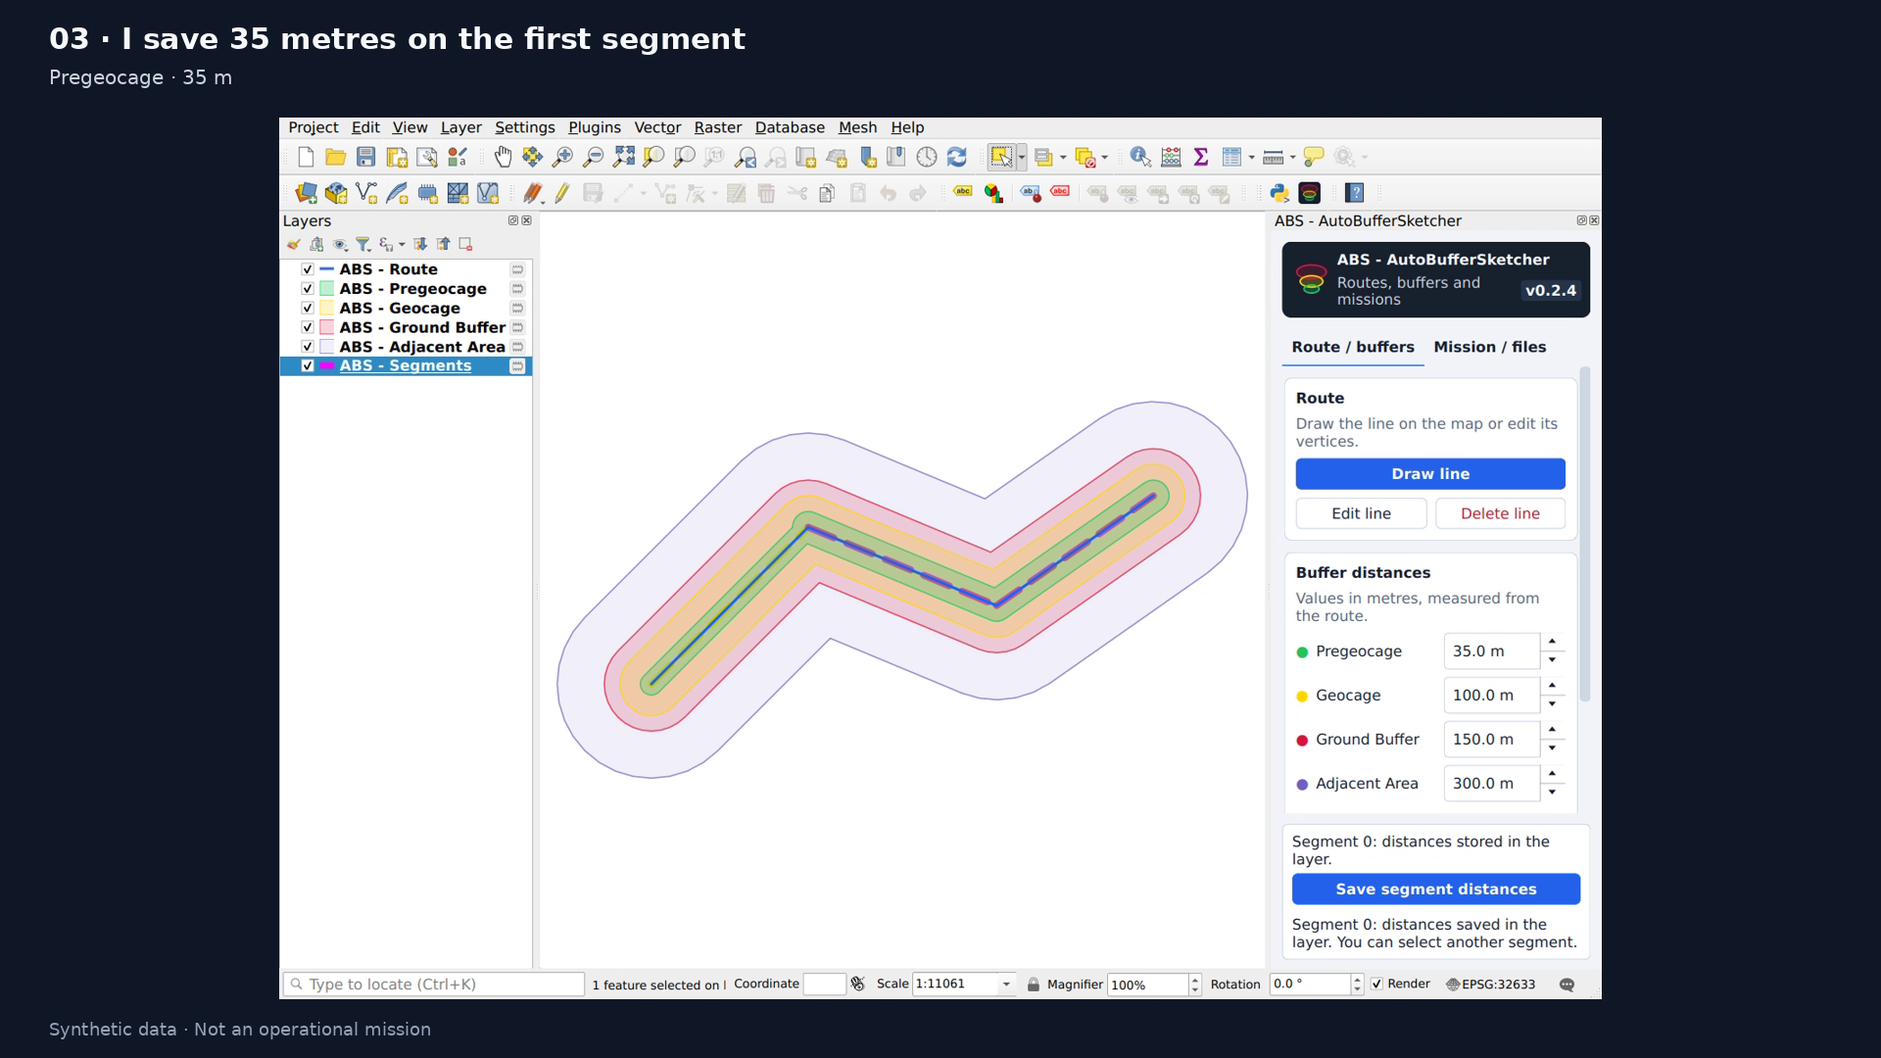
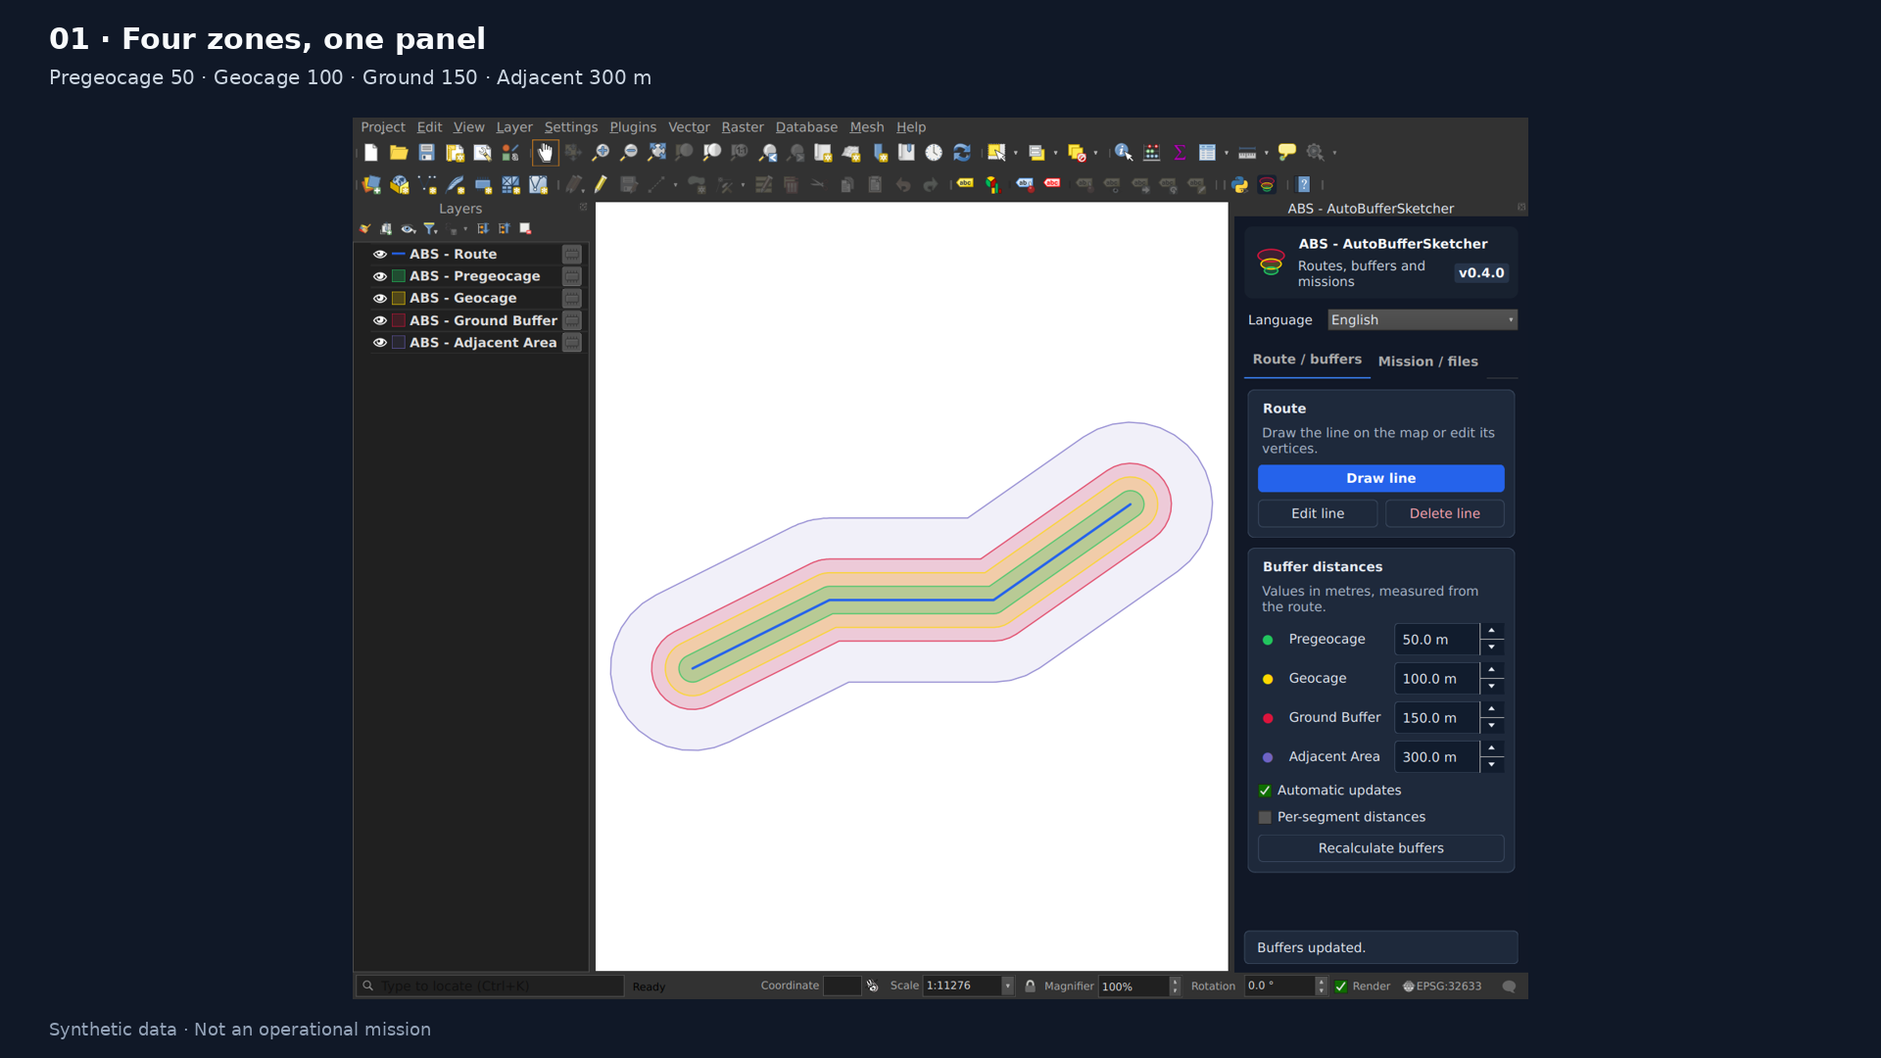
docs: prepare ABS 0.4.0 release and bilingual theme demos
Present six languages and QGIS 3/4 support as the tested 0.4.0 release. Refresh synthetic QGIS screenshots and link new IT/EN videos with light/dark comparisons. Explain catalog approval status and the legacy Qt5 bridge flagged by its static Qt6 checker. Add translation feedback contacts. No packaged plugin files change; validated 34-file ZIP remains byte-identical.

diff --git a/README.md b/README.md
@@ -14,13 +14,21 @@ Sto sviluppando ABS come progetto personale per disegnare e modificare rotte in 
 
 Con ABS voglio raccogliere nello stesso pannello il lavoro sulla rotta, il calcolo dei buffer e la preparazione dei dati da esportare. Per lo scambio GIS metto a disposizione GeoPackage e GeoJSON; per il flusso missione ho un’esportazione `.plan` pensata appositamente per **RigiCloud**.
 
-**Stato:** ho pubblicato la versione sperimentale [0.2.5](https://github.com/OnlyPio59/ABS_AutoBufferSketcher/releases/tag/v0.2.5), con versione visibile nel pannello. ABS è approvato e disponibile nel [catalogo ufficiale QGIS](https://plugins.qgis.org/plugins/auto_buffer_sketcher/), come plugin sperimentale. Lo ZIP 0.2.5 pubblicato include italiano e inglese; il candidato 0.4.0 descritto sotto porta l’interfaccia a sei lingue.
+**Stato:** pubblico la versione sperimentale [0.4.0](https://github.com/OnlyPio59/ABS_AutoBufferSketcher/releases/tag/v0.4.0), con sei lingue e compatibilità QGIS 3/4. Ho inviato questa versione al catalogo QGIS: la scansione sicurezza/qualità è passata 5/5; l’approvazione è ancora in attesa. Nel [catalogo ufficiale](https://plugins.qgis.org/plugins/auto_buffer_sketcher/) resta disponibile la 0.2.5 fino all’approvazione dell’aggiornamento.
 
 [Guida completa](docs/USER_GUIDE.md) · [Demo riproducibile](examples/README.md) · [Presentazione breve](docs/DEMO.md#italiano) · [Changelog](CHANGELOG.md) · [Contribuire](CONTRIBUTING.md)
 
-Nel candidato 0.4.0 mantengo la compatibilità QGIS 3/4 e Qt5/Qt6 e aggiungo sei lingue: italiano, inglese, spagnolo, portoghese brasiliano, francese e tedesco. Dal selettore sotto il logo posso seguire automaticamente la lingua di QGIS oppure scegliere una lingua, salvata tra le preferenze di ABS e applicata subito. Calcoli, interfaccia e formati restano invariati. La 0.2.5 è la versione attualmente approvata sul catalogo. [Compatibilità e verifiche](docs/COMPATIBILITY.md).
+Nella 0.4.0 mantengo la compatibilità QGIS 3/4 e Qt5/Qt6 e aggiungo sei lingue: italiano, inglese, spagnolo, portoghese brasiliano, francese e tedesco. Dal selettore sotto il logo posso seguire automaticamente la lingua di QGIS oppure scegliere una lingua, salvata tra le preferenze di ABS e applicata subito. Calcoli, interfaccia e formati restano invariati. La 0.2.5 è la versione attualmente approvata sul catalogo. [Compatibilità e verifiche](docs/COMPATIBILITY.md).
 
-**Demo video — 50 secondi:** [guarda o scarica la versione italiana](https://github.com/OnlyPio59/ABS_AutoBufferSketcher/releases/download/v0.2.4/ABS_demo_0.2.4_IT_r1.mp4). Mostro la modifica della rotta, il salvataggio indipendente delle distanze e gli export, con schermate QGIS e dati sintetici. La demo è realizzata con la 0.2.4 e mostra lo stesso flusso della 0.2.5.
+**Demo video 0.4.0 — 58 secondi:** [guarda o scarica la versione italiana](https://github.com/OnlyPio59/ABS_AutoBufferSketcher/releases/download/v0.4.0/ABS_demo_0.4.0_IT.mp4). Mostro la modifica della rotta, il salvataggio indipendente delle distanze e gli export, con schermate QGIS e dati sintetici. Mostro anche i temi chiaro/scuro e le sei lingue; uso schermate QGIS reali con dati sintetici.
+
+### Tema chiaro e scuro
+
+Il pannello segue il tema di QGIS; mantengo il logo sul suo fondo scuro in entrambi i casi.
+
+| Chiaro | Scuro |
+| --- | --- |
+| <img src="docs/assets/theme-light-it.png" alt="ABS 0.4.0 light" width="340"> | <img src="docs/assets/theme-dark-it.png" alt="ABS 0.4.0 dark" width="340"> |
 
 ### Da dove nasce
 
@@ -38,10 +46,10 @@ Ho quindi portato questo lavoro in QGIS: modifico la rotta, ricalcolo i buffer e
 
 ### Installazione e primo utilizzo
 
-Uso Python, Qt e PyQGIS già forniti con QGIS, senza pacchetti Python esterni. Il sorgente 0.4.0 dichiara QGIS **3.34–4.99**; le verifiche su Linux coprono **3.34.4 e 3.44.15/Qt5** e **4.2.3/Qt6**. Non ho ancora convalidato Windows o macOS. La 0.2.5 nel catalogo è limitata a QGIS 3. Per provare il candidato 0.4.0 su QGIS 4 uso il suo ZIP, quando disponibile tra le [release](https://github.com/OnlyPio59/ABS_AutoBufferSketcher/releases).
+Uso Python, Qt e PyQGIS già forniti con QGIS, senza pacchetti Python esterni. Il sorgente 0.4.0 dichiara QGIS **3.34–4.99**; le verifiche su Linux coprono **3.34.4 e 3.44.15/Qt5** e **4.2.3/Qt6**. Non ho ancora convalidato Windows o macOS. La 0.2.5 nel catalogo è limitata a QGIS 3. Per installare subito la 0.4.0 uso lo ZIP della [release](https://github.com/OnlyPio59/ABS_AutoBufferSketcher/releases/tag/v0.4.0), anche su QGIS 4, in attesa dell’approvazione nel catalogo.
 
 1. In QGIS apri **Plugin → Gestisci e installa plugin → Impostazioni** e abilita **Mostra anche plugin sperimentali**.
-2. Nella scheda **Tutti**, cerca **ABS - AutoBufferSketcher** e premi **Installa plugin**. In alternativa, scarica lo ZIP dagli asset della [release](https://github.com/OnlyPio59/ABS_AutoBufferSketcher/releases/tag/v0.2.5) e usa **Installa da ZIP**. Dopo un aggiornamento, riavvia QGIS.
+2. Nella scheda **Tutti**, cerca **ABS - AutoBufferSketcher** e premi **Installa plugin**. In alternativa, scarica lo ZIP dagli asset della [release](https://github.com/OnlyPio59/ABS_AutoBufferSketcher/releases/tag/v0.4.0) e usa **Installa da ZIP**. Dopo un aggiornamento, riavvia QGIS.
 3. Apri ABS dalla toolbar. In **Rotta e buffer** imposta le distanze e premi **Disegna linea**: clic sinistro per i vertici, clic destro per completare, Backspace per rimuovere l’ultimo vertice, Esc per annullare.
 4. Usa **Modifica linea** e **Salva modifiche** per intervenire sui vertici. Puoi disattivare l’aggiornamento automatico e usare **Ricalcola buffer**.
 5. Per valori locali, attiva **Distanze diverse per segmento**, seleziona un segmento, modifica i campi e premi **Salva distanze del segmento** prima di selezionare il successivo.
@@ -93,13 +101,21 @@ I am developing ABS as a personal project to draw and edit routes in QGIS and ma
 
 With ABS, I want to bring route editing, buffer calculation and export preparation into the same panel. I provide GeoPackage and GeoJSON for GIS data exchange, and a `.plan` mission export designed specifically for the **RigiCloud** workflow.
 
-**Status:** I have published experimental version [0.2.5](https://github.com/OnlyPio59/ABS_AutoBufferSketcher/releases/tag/v0.2.5), with a visible version badge. ABS is approved and available in the [official QGIS plugin catalog](https://plugins.qgis.org/plugins/auto_buffer_sketcher/), as an experimental plugin. The published 0.2.5 ZIP includes Italian and English; candidate 0.4.0 described below expands the interface to six languages.
+**Status:** I am releasing experimental version [0.4.0](https://github.com/OnlyPio59/ABS_AutoBufferSketcher/releases/tag/v0.4.0), with six languages and QGIS 3/4 compatibility. I have submitted it to the QGIS catalog: security/quality scanning passed 5/5; approval is still pending. The [official catalog](https://plugins.qgis.org/plugins/auto_buffer_sketcher/) continues to provide 0.2.5 until the update is approved.
 
 [Detailed guide](docs/USER_GUIDE.en.md) · [Reproducible demo — Italian](examples/README.md) · [Short presentation](docs/DEMO.md#english) · [Changelog](CHANGELOG.md) · [Contributing](CONTRIBUTING.md)
 
-In candidate 0.4.0 I retain QGIS 3/4 and Qt5/Qt6 compatibility and provide six languages: Italian, English, Spanish, Brazilian Portuguese, French and German. From the selector below the logo I can follow the QGIS language automatically or choose a language, saved in ABS preferences and applied immediately. Calculations, interface and formats remain unchanged. Version 0.2.5 is the version currently approved in the catalog. [Compatibility and checks](docs/COMPATIBILITY.md).
+In 0.4.0 I retain QGIS 3/4 and Qt5/Qt6 compatibility and provide six languages: Italian, English, Spanish, Brazilian Portuguese, French and German. From the selector below the logo I can follow the QGIS language automatically or choose a language, saved in ABS preferences and applied immediately. Calculations, interface and formats remain unchanged. Version 0.2.5 is the version currently approved in the catalog. [Compatibility and checks](docs/COMPATIBILITY.md).
 
-**Video demo — 50 seconds:** [watch or download the English version](https://github.com/OnlyPio59/ABS_AutoBufferSketcher/releases/download/v0.2.4/ABS_demo_0.2.4_EN_r1.mp4). I show route editing, independent segment-distance saving and exports using English QGIS screenshots and synthetic data. The demo uses 0.2.4 and shows the same workflow as 0.2.5.
+**Video demo 0.4.0 — 58 seconds:** [watch or download the English version](https://github.com/OnlyPio59/ABS_AutoBufferSketcher/releases/download/v0.4.0/ABS_demo_0.4.0_EN.mp4). I show route editing, independent segment-distance saving and exports using English QGIS screenshots and synthetic data. I also show light/dark themes and all six languages, using real QGIS screenshots and synthetic data.
+
+### Light and dark themes
+
+The panel follows the QGIS theme; I keep the logo on its dark background in both cases.
+
+| Light | Dark |
+| --- | --- |
+| <img src="docs/assets/theme-light-en.png" alt="ABS 0.4.0 light" width="340"> | <img src="docs/assets/theme-dark-en.png" alt="ABS 0.4.0 dark" width="340"> |
 
 ### Where it started
 
@@ -117,10 +133,10 @@ I moved this work into QGIS, where I can edit the route, recalculate its buffers
 
 ### Installation and first use
 
-I use the Python, Qt and PyQGIS components shipped with QGIS, without additional Python packages. The 0.4.0 source declares QGIS **3.34–4.99**; Linux checks cover **3.34.4 and 3.44.15/Qt5** and **4.2.3/Qt6**. I have not yet validated Windows or macOS. The catalog version 0.2.5 is limited to QGIS 3. To try the 0.4.0 candidate on QGIS 4, I use its ZIP when available in [releases](https://github.com/OnlyPio59/ABS_AutoBufferSketcher/releases).
+I use the Python, Qt and PyQGIS components shipped with QGIS, without additional Python packages. The 0.4.0 source declares QGIS **3.34–4.99**; Linux checks cover **3.34.4 and 3.44.15/Qt5** and **4.2.3/Qt6**. I have not yet validated Windows or macOS. The catalog version 0.2.5 is limited to QGIS 3. To install 0.4.0 now, including on QGIS 4, I use the [release ZIP](https://github.com/OnlyPio59/ABS_AutoBufferSketcher/releases/tag/v0.4.0) while catalog approval is pending.
 
 1. In QGIS, open **Plugins → Manage and Install Plugins → Settings** and enable **Show also experimental plugins**.
-2. In **All**, search for **ABS - AutoBufferSketcher** and click **Install Plugin**. Alternatively, download the ZIP asset from the [release](https://github.com/OnlyPio59/ABS_AutoBufferSketcher/releases/tag/v0.2.5) and use **Install from ZIP**. Restart QGIS after an update.
+2. In **All**, search for **ABS - AutoBufferSketcher** and click **Install Plugin**. Alternatively, download the ZIP asset from the [release](https://github.com/OnlyPio59/ABS_AutoBufferSketcher/releases/tag/v0.4.0) and use **Install from ZIP**. Restart QGIS after an update.
 3. Open ABS from its toolbar button. In **Route / buffers** (**Rotta e buffer** in Italian), set the distances and click **Draw line** (**Disegna linea**): left-click to add vertices, right-click to finish, Backspace to remove the last vertex and Esc to cancel.
 4. Use **Edit line** (**Modifica linea**) and **Save changes** (**Salva modifiche**) to edit vertices. You can disable automatic updates and use **Recalculate buffers** (**Ricalcola buffer**).
 5. For local values, enable **Per-segment distances** (**Distanze diverse per segmento**), select a segment, change the values and click **Save segment distances** (**Salva distanze del segmento**) before selecting the next segment.

diff --git a/docs/DEMO.md b/docs/DEMO.md
@@ -4,20 +4,23 @@
 
 ## Italiano
 
-La demo usa la 0.2.4. È valida anche per la 0.2.5: questa versione rinomina soltanto cinque variabili locali, senza modifiche alle funzioni o all’interfaccia.
+La demo mostra ABS **0.4.0** in QGIS, con dati sintetici, selezione della lingua e confronto dei temi chiaro/scuro.
 
-[**Guarda o scarica il video italiano — 50 secondi**](https://github.com/OnlyPio59/ABS_AutoBufferSketcher/releases/download/v0.2.4/ABS_demo_0.2.4_IT_r1.mp4)
+[**Guarda o scarica il video italiano — 58 secondi**](https://github.com/OnlyPio59/ABS_AutoBufferSketcher/releases/download/v0.4.0/ABS_demo_0.4.0_IT.mp4)
 
-[![Anteprima della demo italiana](assets/demo-it.png)](https://github.com/OnlyPio59/ABS_AutoBufferSketcher/releases/download/v0.2.4/ABS_demo_0.2.4_IT_r1.mp4)
+[![Anteprima della demo italiana](assets/demo-it.png)](https://github.com/OnlyPio59/ABS_AutoBufferSketcher/releases/download/v0.4.0/ABS_demo_0.4.0_IT.mp4)
 
 
 Uso una rotta inventata per mostrare il problema che risolve ABS: modificare la geometria e adattare le distanze dei buffer per tratto, nello stesso pannello QGIS. L’esempio non è una missione operativa.
 
-1. Apro la [rotta sintetica](../examples/synthetic_route.geojson) in un progetto vuoto e seguo la [procedura riproducibile](../examples/README.md). Mostro la versione 0.2.4 nel pannello.
+1. Apro la [rotta sintetica](../examples/synthetic_route.geojson) in un progetto vuoto e seguo la [procedura riproducibile](../examples/README.md). Mostro la versione 0.4.0 nel pannello.
 2. Genero le quattro fasce con distanze 50, 100, 150 e 300 metri. Qui uso 300 metri per Adjacent Area per mantenere leggibile l’inquadratura; il default del plugin è 5000.
 3. Modifico un vertice e mostro il ricalcolo delle fasce.
 4. Attivo le distanze per segmento: imposto Pregeocage a 35 metri sul primo segmento e premo **Salva distanze del segmento**. Sul secondo imposto 70 e salvo. Tornando sul primo ritrovo 35: il salvataggio è indipendente.
 5. Esporto GeoPackage e GeoJSON per lo scambio GIS, e il `.plan` dedicato a RigiCloud. Per riprendere il progetto salvo anche i layer persistenti e il progetto QGIS.
+
+6. Mostro lo stesso pannello con i temi chiaro e scuro di QGIS; il logo conserva il fondo scuro.
+7. Scelgo tra Italiano, English, Español, Português (Brasil), Français e Deutsch oppure uso la modalità Automatica (QGIS).
 
 Per un video di 45–60 secondi dedico circa 5 secondi all’introduzione, 10 alla geometria, 20 ai due segmenti e 10–15 agli export. Mantengo visibili pannello, versione e valori. Una sequenza di schermate va presentata come tale, senza simularla come registrazione di clic.
 
@@ -25,20 +28,23 @@ Ho verificato il `.plan` nel mio ambiente RigiCloud 1.19.9. Un’eventuale ripre
 
 ## English
 
-The demo uses 0.2.4 and also applies to 0.2.5: that version only renames five local variables, with no changes to functionality or the interface.
+The demo shows ABS **0.4.0** in QGIS, with synthetic data, language selection and a light/dark theme comparison.
 
-[**Watch or download the English video — 50 seconds**](https://github.com/OnlyPio59/ABS_AutoBufferSketcher/releases/download/v0.2.4/ABS_demo_0.2.4_EN_r1.mp4)
+[**Watch or download the English video — 58 seconds**](https://github.com/OnlyPio59/ABS_AutoBufferSketcher/releases/download/v0.4.0/ABS_demo_0.4.0_EN.mp4)
 
-[![English demo preview](assets/demo-en.png)](https://github.com/OnlyPio59/ABS_AutoBufferSketcher/releases/download/v0.2.4/ABS_demo_0.2.4_EN_r1.mp4)
+[![English demo preview](assets/demo-en.png)](https://github.com/OnlyPio59/ABS_AutoBufferSketcher/releases/download/v0.4.0/ABS_demo_0.4.0_EN.mp4)
 
 
 I use a fictional route to show the problem ABS addresses: editing geometry and adapting buffer distances along individual sections in the same QGIS panel. This example is not an operational mission.
 
-1. Open the [synthetic route](../examples/synthetic_route.geojson) in an empty project and follow the [reproducible procedure](../examples/README.md). Show version 0.2.4 in the panel.
+1. Open the [synthetic route](../examples/synthetic_route.geojson) in an empty project and follow the [reproducible procedure](../examples/README.md). Show version 0.4.0 in the panel.
 2. Generate the four zones at 50, 100, 150 and 300 metres. Adjacent Area is set to 300 for readable framing; the plugin default remains 5000.
 3. Edit a vertex and show the recalculated zones.
 4. Enable per-segment distances. Set Pregeocage to 35 metres on the first segment and click **Save segment distances**. Set the second to 70 and save. Return to the first to show that its saved value remains 35.
 5. Export GeoPackage and GeoJSON for GIS exchange and the dedicated RigiCloud `.plan`. Save persistent layers and the QGIS project to resume work later.
+
+6. I show the same panel with QGIS light and dark themes; the logo keeps its dark background.
+7. I choose Italiano, English, Español, Português (Brasil), Français or Deutsch, or use Automatic (QGIS).
 
 For a 45–60 second video, allow roughly 5 seconds for the introduction, 10 for geometry, 20 for the two segments and 10–15 for exports. Keep the panel, version and values visible. Present a screenshot sequence as a screenshot sequence rather than a recording of clicks.
 

diff --git a/docs/COMPATIBILITY.md b/docs/COMPATIBILITY.md
@@ -4,7 +4,7 @@
 
 ## Italiano
 
-Con il candidato **0.4.0** mantengo un solo codice per QGIS **3.34–4.99**, usando `qgis.PyQt` per Qt5 e Qt6. La 0.2.5 già approvata nel catalogo resta limitata a QGIS 3; l’approvazione di quella versione non vale come pubblicazione del nuovo candidato.
+Con la **0.4.0** mantengo un solo codice per QGIS **3.34–4.99**, usando `qgis.PyQt` per Qt5 e Qt6. La 0.2.5 già approvata nel catalogo resta limitata a QGIS 3; l’approvazione di quella versione non vale come pubblicazione del nuovo candidato.
 
 Le verifiche Linux comprendono QGIS 3.34.4/Qt5 (Ubuntu 24.04), QGIS 3.44.15/Qt 5.15.13 e QGIS 4.2.3/Qt 6.10.2 (immagine ufficiale QGIS basata su Ubuntu 26.04). In CI il runtime Qt6 è vincolato al digest dell’immagine, e il job controlla esplicitamente QGIS >=4 e Qt6. Windows e macOS non sono ancora convalidati; non dichiaro supporto a QGIS 5.
 
@@ -16,7 +16,7 @@ La migrazione riguarda enum e import Qt/QGIS e i tipi dei campi: il bridge conse
 
 ## English
 
-With candidate **0.4.0** I maintain one codebase for QGIS **3.34–4.99**, using `qgis.PyQt` for Qt5 and Qt6. The approved catalog version 0.2.5 remains limited to QGIS 3; its approval does not mean the new candidate has been published.
+With **0.4.0** I maintain one codebase for QGIS **3.34–4.99**, using `qgis.PyQt` for Qt5 and Qt6. The approved catalog version 0.2.5 remains limited to QGIS 3; its approval does not mean the new candidate has been published.
 
 Linux checks cover QGIS 3.34.4/Qt5 (Ubuntu 24.04), QGIS 3.44.15/Qt 5.15.13, and QGIS 4.2.3/Qt 6.10.2 (the official QGIS image based on Ubuntu 26.04). CI pins the Qt6 runtime image digest and explicitly checks QGIS >=4 and Qt6. Windows and macOS are not yet validated; I do not declare QGIS 5 support.
 
@@ -32,3 +32,9 @@ The migration concerns Qt/QGIS enum scopes, imports and field types: a bridge re
 - [QGIS Qt5 / Qt6 migration wiki](https://github.com/qgis/QGIS/wiki/Plugin-migration-to-be-compatible-with-Qt5-and-Qt6)
 - [Official PyQGIS4 checker and runtime image](https://github.com/qgis/pyqgis4-checker)
 - [Automated checks](https://github.com/OnlyPio59/ABS_AutoBufferSketcher/actions)
+
+## Catalog Qt6 static check — 0.4.0
+
+The catalog checker reports one item at `qt_compat.py:9`, on `QVariant.Type(int(meta_type))`. This branch runs only on QGIS <3.38 with Qt5 and supplies the field-type enum required by those older bindings. QGIS >=3.38, including the tested QGIS 4.2.3/Qt6 runtime, returns the supplied `QMetaType.Type` unchanged. I retain this bridge to support QGIS 3.34; runtime CI and native ZIP installation checks pass on both Qt generations. The catalog flag remains visible for review and is not described as a passed Qt6 catalog check.
+
+Il controllo statico del catalogo segnala il ramo `QVariant.Type` riservato a QGIS <3.38/Qt5. Su QGIS 4 quel ramo non viene eseguito: mantengo il bridge per QGIS 3.34 e documento la segnalazione per la revisione, senza dichiarare superato il controllo Qt6 del portale.

diff --git a/docs/TRANSLATING.md b/docs/TRANSLATING.md
@@ -53,3 +53,9 @@ Translate interface text, accessibility labels, tooltips, dialogs, statuses, err
 Buffer-zone names such as Pregeocage, Geocage, Ground Buffer and Adjacent Area remain consistent with the existing workflow. The public presentation and guides remain Italian/English.
 
 Reference: [QGIS plugin translation workflow](https://docs.qgis.org/3.44/en/docs/pyqgis_developer_cookbook/plugins/plugins.html#translating-plugins).
+
+## Translation feedback / Segnalazioni
+
+I welcome corrections through [GitHub Issues](https://github.com/OnlyPio59/ABS_AutoBufferSketcher/issues) or rosano_francesco@hotmail.it. Please include the ABS version, language, current wording and suggested replacement; a screenshot with private data removed is helpful. The six catalogs have technical coverage, but I do not claim an independent native-speaker review.
+
+Accolgo correzioni tramite Issues o email: indica versione, lingua, testo attuale e proposta. I controlli tecnici coprono i sei cataloghi; non dichiaro una revisione indipendente da parte di madrelingua.

diff --git a/CHANGELOG.md b/CHANGELOG.md
@@ -1,6 +1,6 @@
 # Changelog
 
-## 0.4.0 — Candidato sperimentale
+## 0.4.0 — 2026-11-17 · Sperimentale
 
 - Aggiunti spagnolo, portoghese brasiliano, francese e tedesco a italiano e inglese: 204 template completi per lingua, con cataloghi TS/QM.
 - Selettore persistente con modalità Automatica (QGIS) predefinita e cambio manuale immediato; impostazioni di QGIS e dati del progetto conservati.
